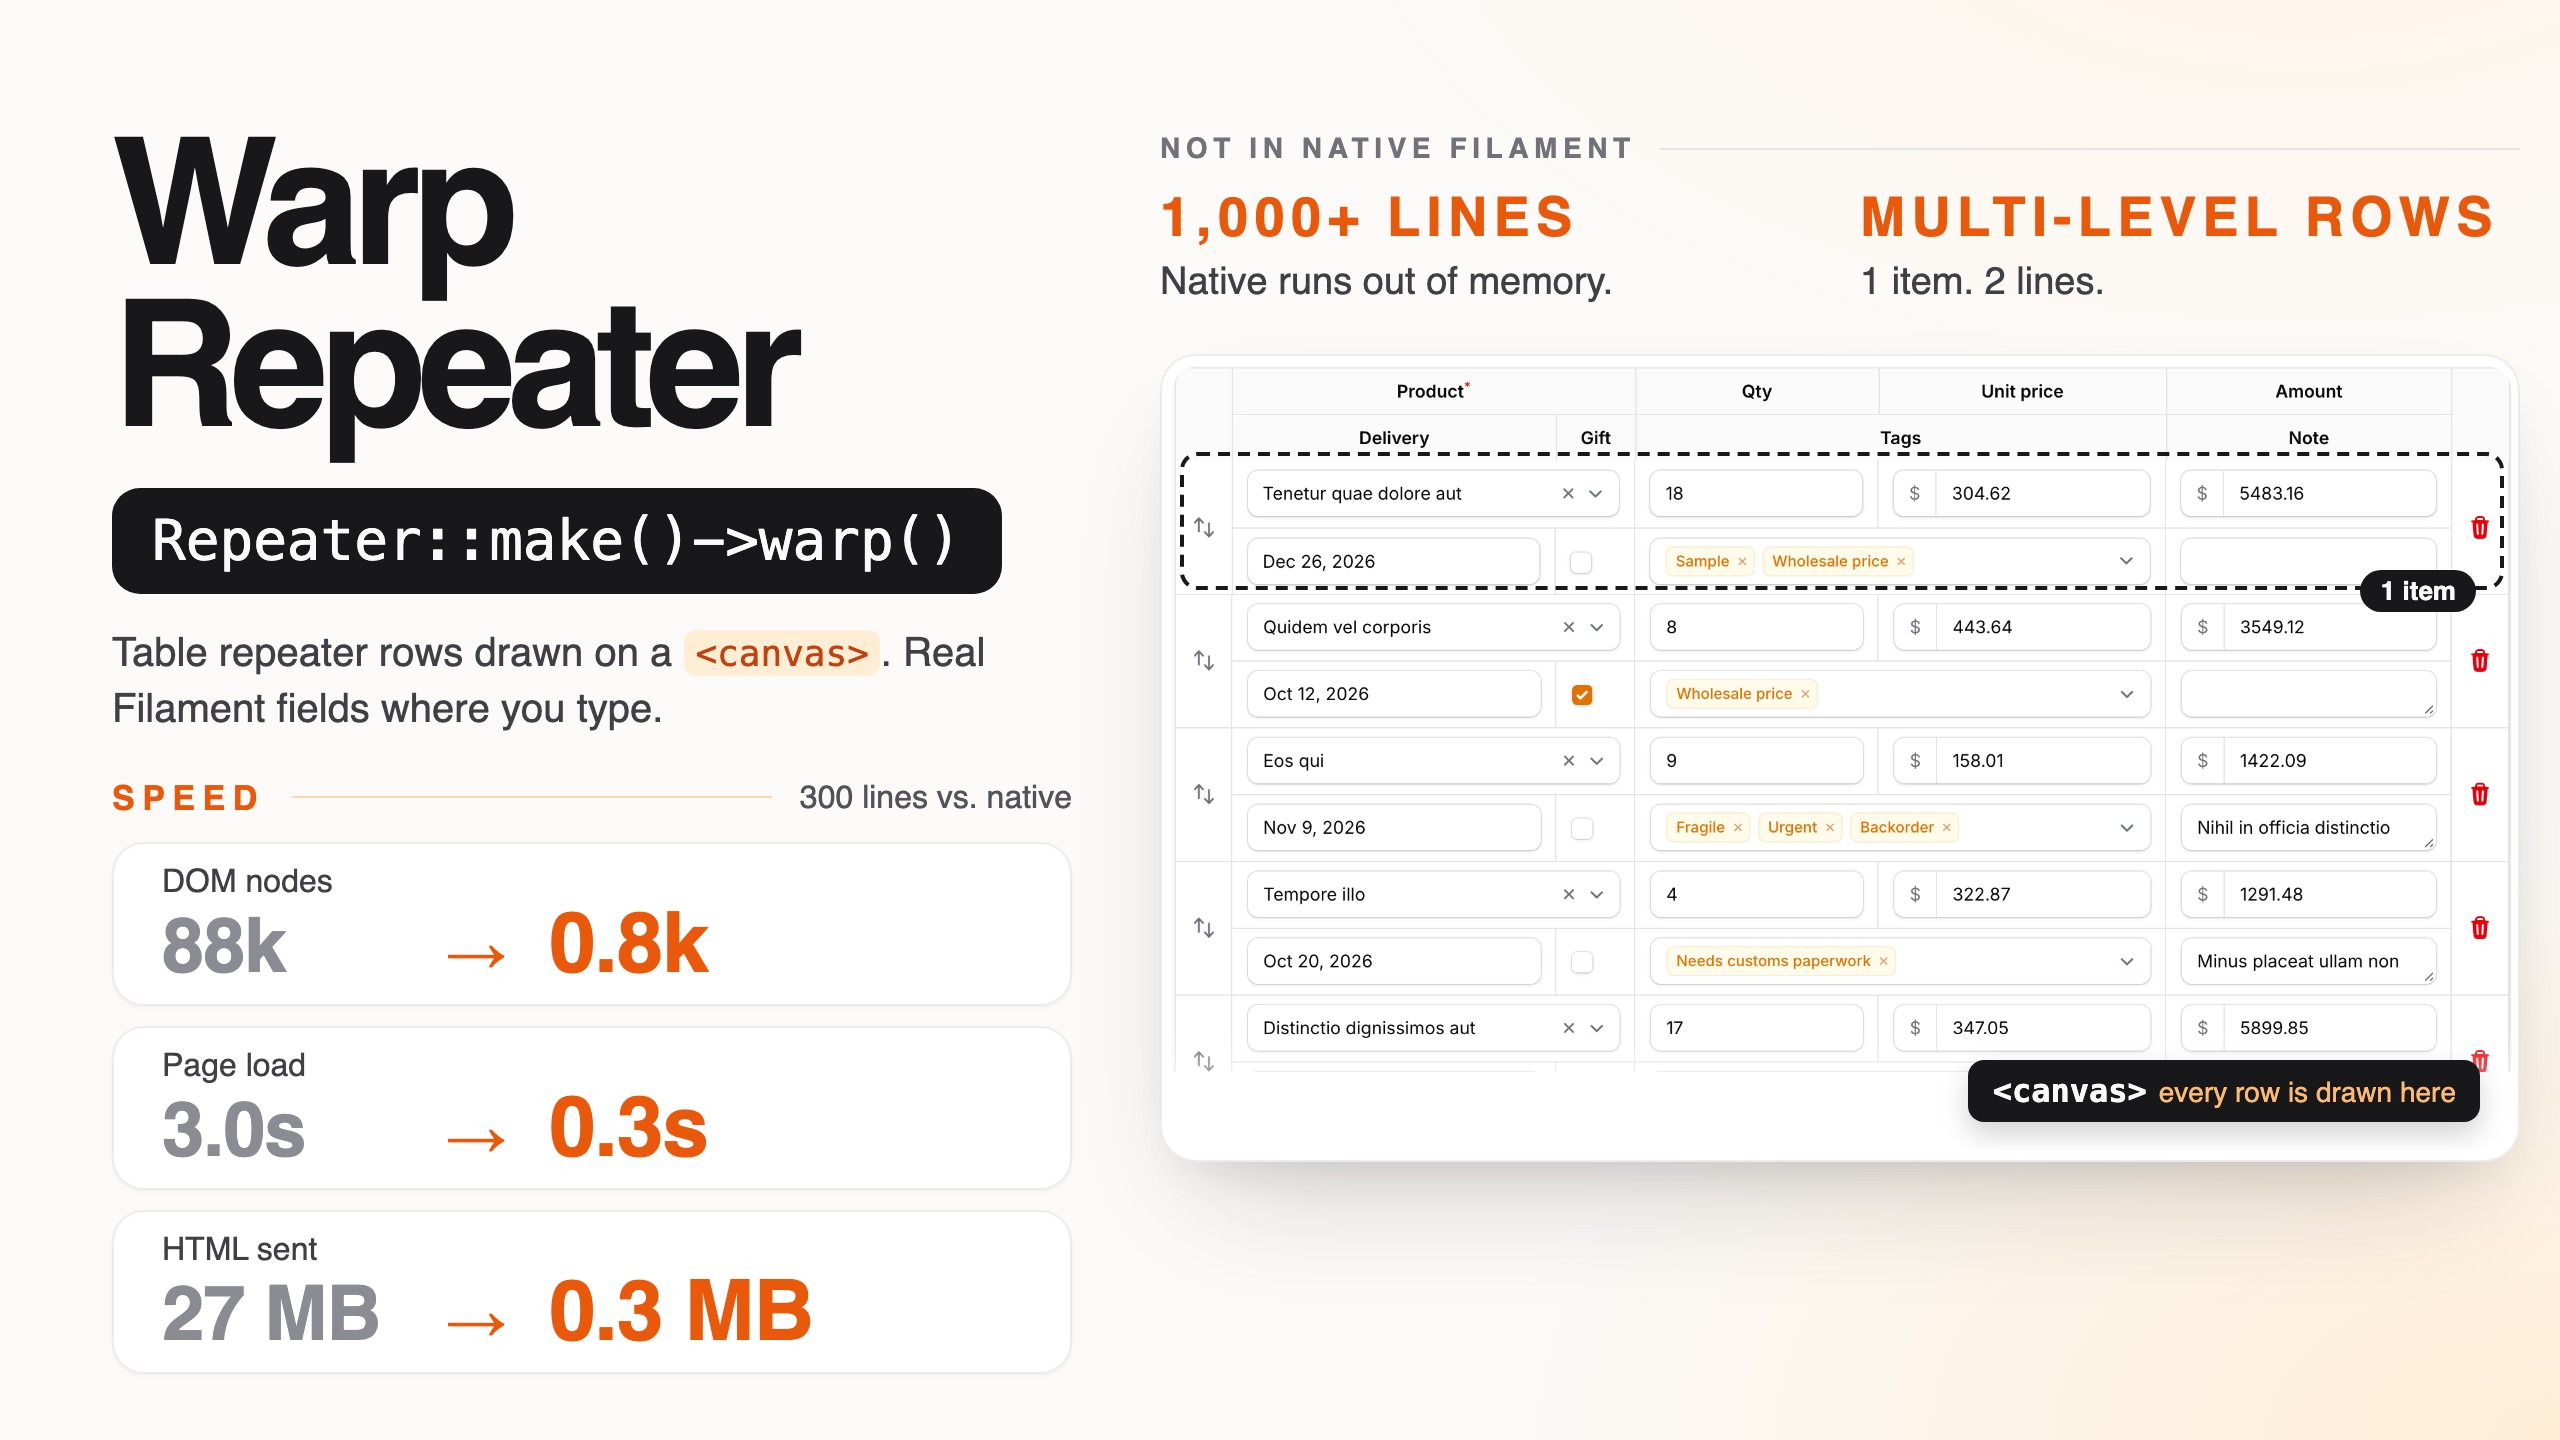
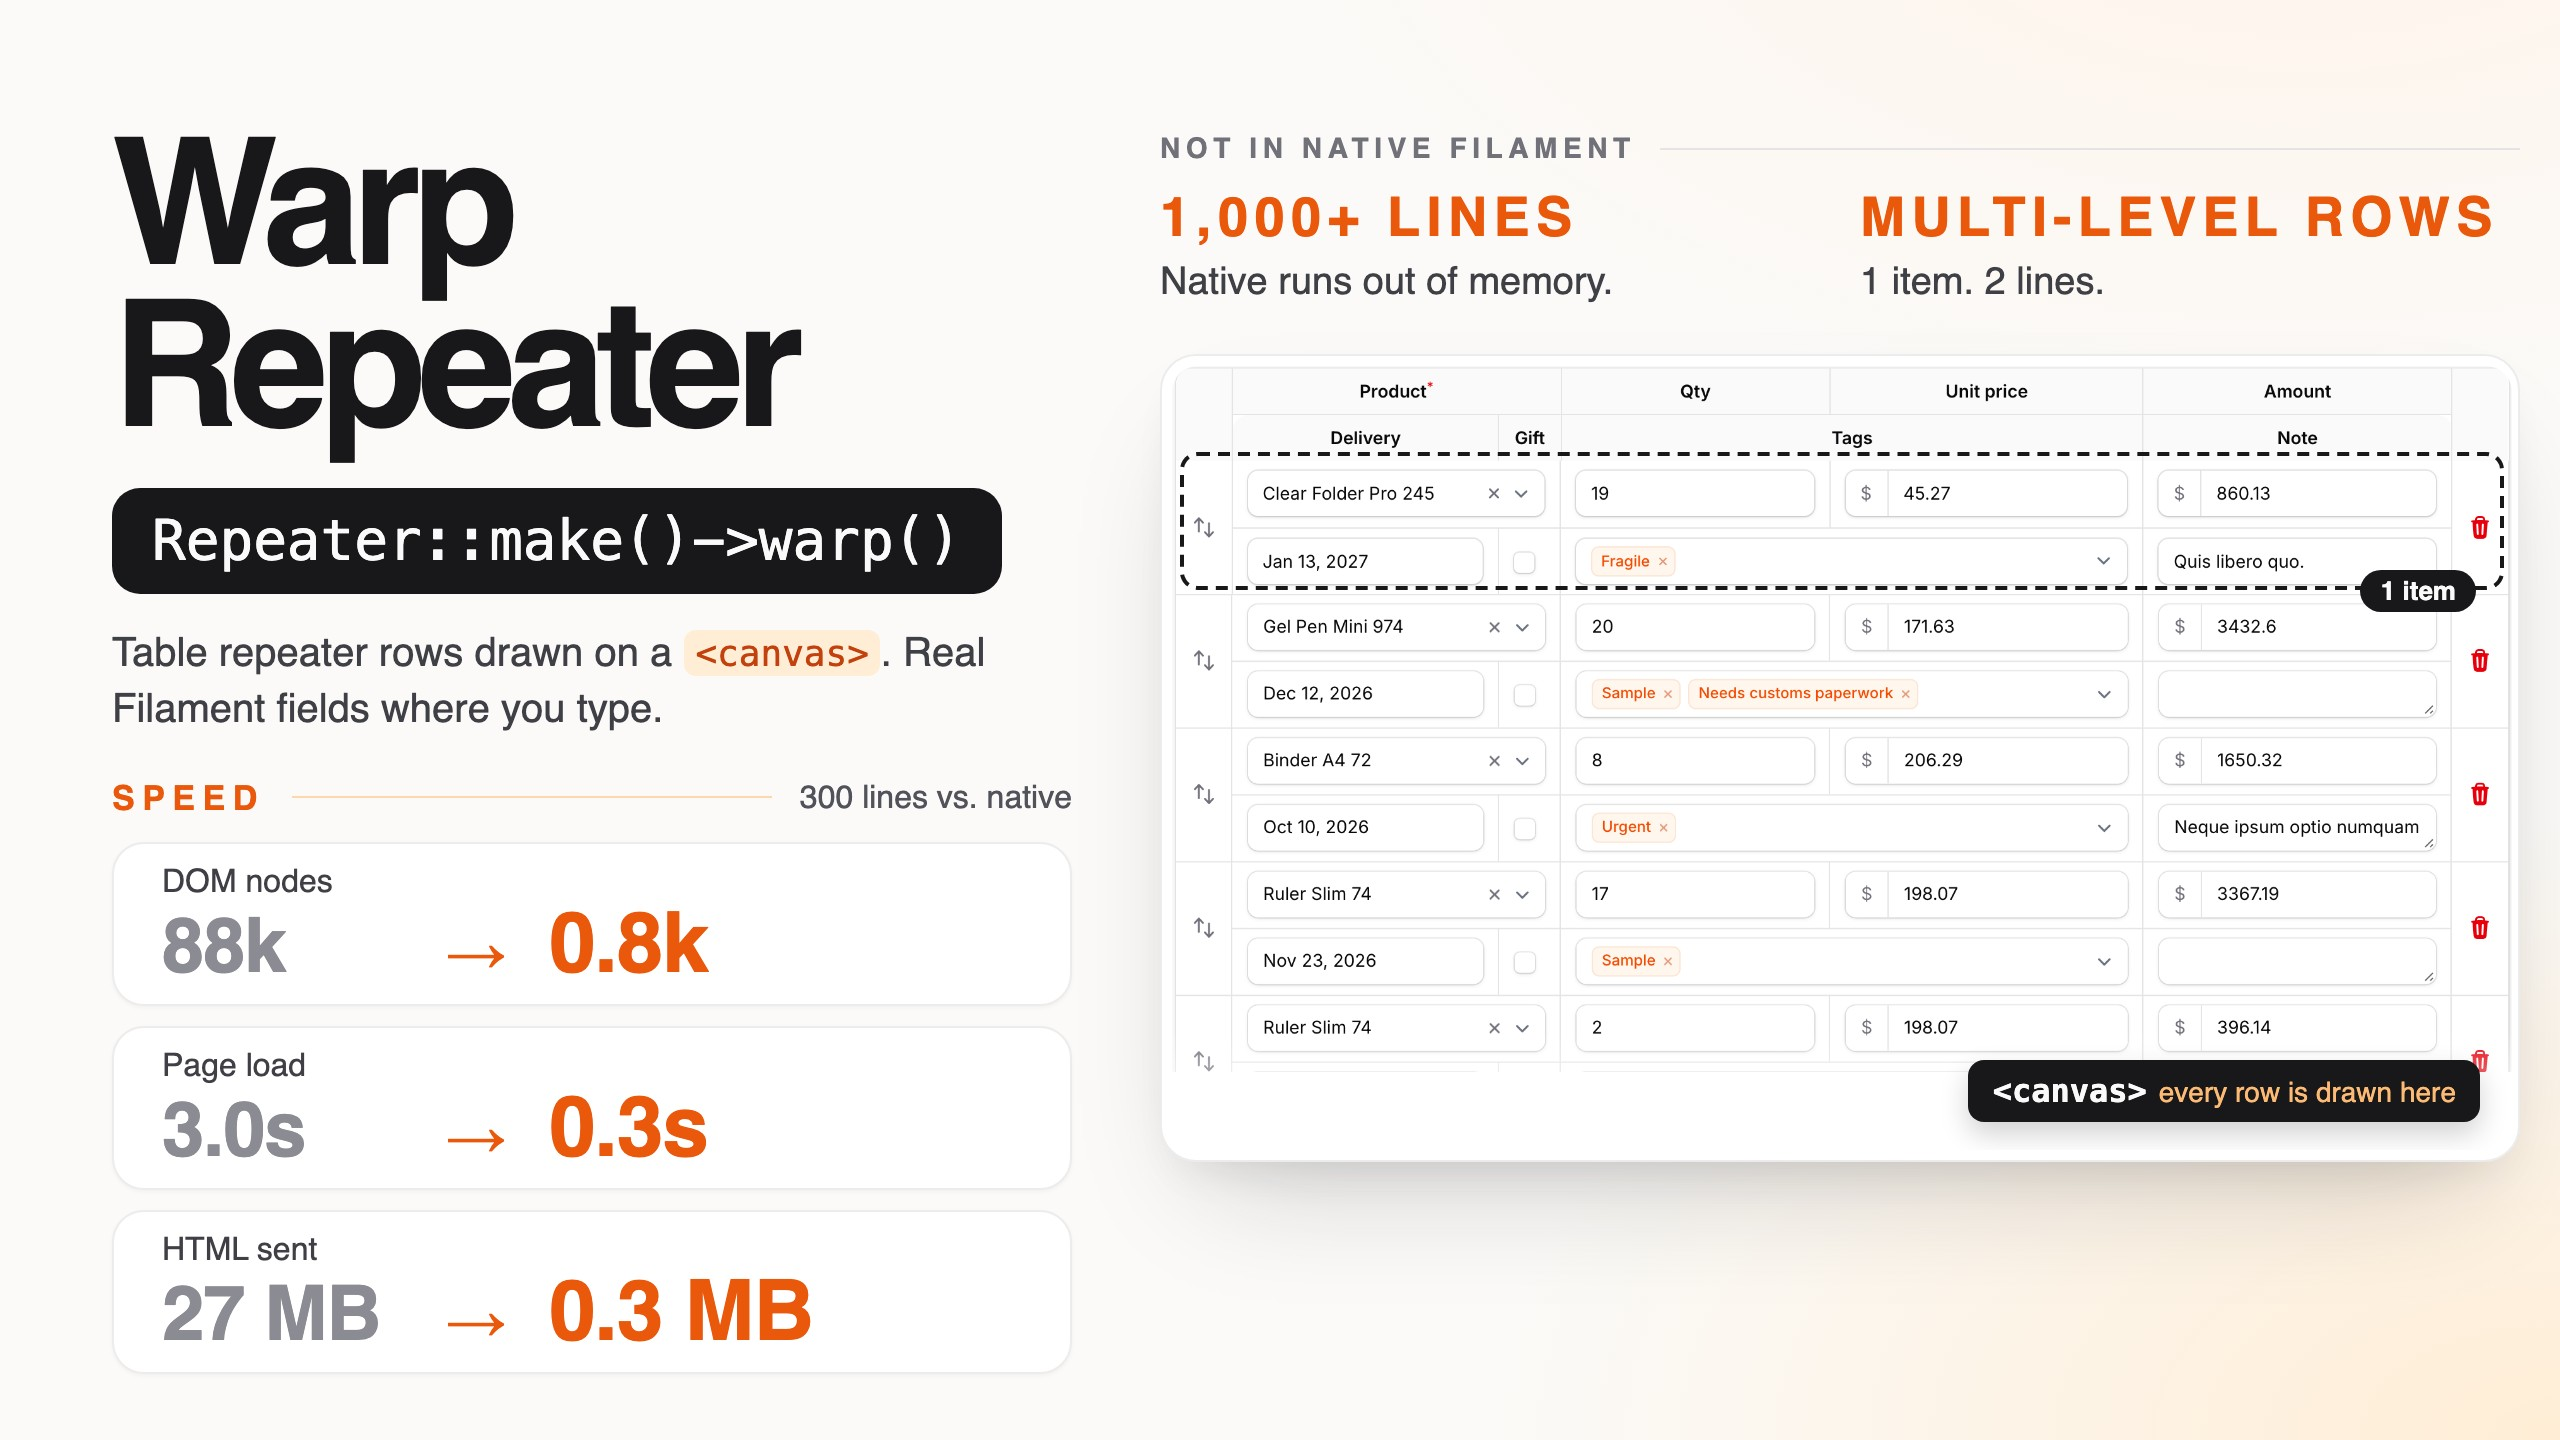
Screenshots from the demo data, leading with multi-level rows

diff --git a/README.md b/README.md
@@ -50,11 +50,11 @@ On an order form with a `relationship()` repeater, a searchable select, a JavaSc
 
 ## Screenshots
 
-The row under the pointer is made of real Filament fields, here with a multiple select open. The other rows are drawn on the canvas:
+Multi-level rows, two lines per item. The item under the pointer is made of real Filament fields, here with a multiple select open; the other items are drawn on the canvas:
 
-![Real fields on top of the canvas](https://raw.githubusercontent.com/qalainau-labs/filament-warp-repeater-docs/main/art/real-fields.png)
+![Multi-level rows with real fields on top of the canvas](https://raw.githubusercontent.com/qalainau-labs/filament-warp-repeater-docs/main/art/real-fields.png)
 
-Multi-level rows, two lines per item:
+The same items without the pointer, all drawn on the canvas:
 
 ![Multi-level rows](https://raw.githubusercontent.com/qalainau-labs/filament-warp-repeater-docs/main/art/multi-level-rows.png)
 
